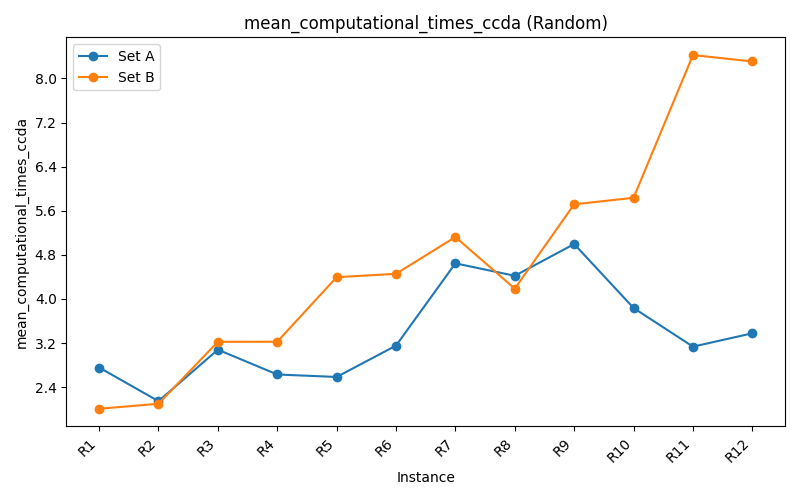
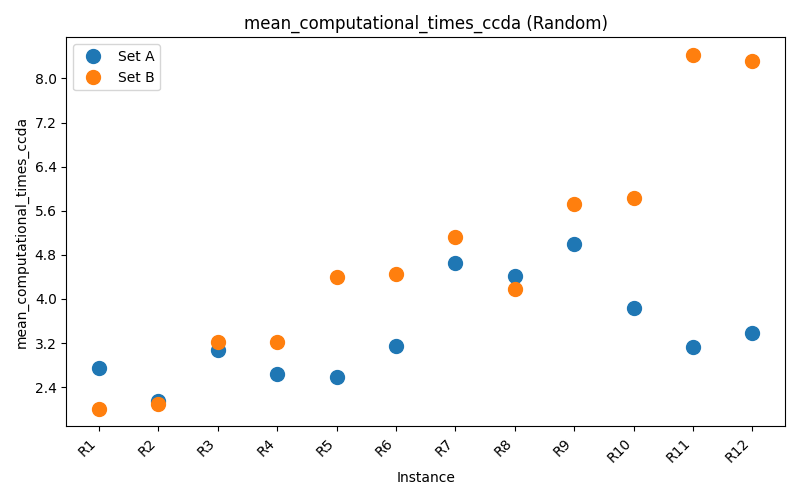
New mean results

diff --git a/utils/save_results.py b/utils/save_results.py
@@ -5,6 +5,7 @@ from matplotlib.ticker import MultipleLocator, MaxNLocator
 from natsort import natsorted
 import numpy as np
 
+
 def read_results_rilp(set_type, instance_type):
   results = 'results/SET_' + set_type + '/' + instance_type
   mean_computational_times_ccda = []
@@ -18,8 +19,6 @@ def read_results_rilp(set_type, instance_type):
   mean_costs = []
   tot_opt_found_formulations = []
   tot_opt_found_ccda = []
-
-
 
   for directory in natsorted(os.listdir(results)):
     computational_times_ccda = []
@@ -82,7 +81,6 @@ def read_results_rilp(set_type, instance_type):
       if solution_found:
         opt_found_formulations.append(1)
 
-
     mean_computational_times_ccda.append(np.mean(computational_times_ccda))
     mean_computational_times_reduction_algorithm.append(np.mean(computational_times_reduction_algorithm))
     mean_computational_times_formulation.append(np.mean(computational_times))
@@ -126,6 +124,7 @@ def read_results_ilp(set_type, instance_type):
 
   return mean_computational_times_complete_formulation
 
+
 def save_image(list_A, list_B, instance_type, image_name):
   images_base = 'images'
   dir_path = os.path.join(images_base, instance_type)
@@ -136,8 +135,8 @@ def save_image(list_A, list_B, instance_type, image_name):
   labels = [f"{instance_type}{i + 1}" for i in range(n)]
 
   fig, ax = plt.subplots(figsize=(8, 5))
-  ax.plot(x, list_A, marker='o', linestyle='-', label='Set A')
-  ax.plot(x, list_B, marker='o', linestyle='-', label='Set B')
+  ax.plot(x, list_A, marker='o', linestyle='None', markersize=10, label='Set A')
+  ax.plot(x, list_B, marker='o', linestyle='None', markersize=10, label='Set B')
 
   ax.xaxis.set_major_locator(MultipleLocator(1))
   ax.set_xticks(x)
@@ -156,8 +155,8 @@ def save_image(list_A, list_B, instance_type, image_name):
   plt.close(fig)
 
 
-def save_mean_results(set_type, instance_type, tot_opt_ccda, times_ccda, gaps, tot_opt_formulations, costs, formulation_times_ilp, formulation_times_rilp, filename):
-
+def save_mean_results(set_type, instance_type, times_gra, removed_arcs, more_removed_arcs, tot_opt_ccda, times_ccda,
+                      gaps, tot_opt_formulations, costs, formulation_times_ilp, formulation_times_rilp, filename):
   os.makedirs('results/SET_' + set_type[0], exist_ok=True)
 
   ilp_path = os.path.join('results/SET_' + set_type[0], filename)
@@ -188,15 +187,29 @@ def save_mean_results(set_type, instance_type, tot_opt_ccda, times_ccda, gaps, t
     f.write("\n" + "=" * 81 + "\n")
 
     f.write('\nILP:\n')
-    f.write('\nFormulation times:\n\n')
+    f.write('\nILP formulation times:\n\n')
     for i in range(len(formulation_times_ilp)):
       f.write(f"{set_type}-{instance_type[0]}{i + 1}: " + str(formulation_times_ilp[i]) + "\n")
 
     f.write("\n" + "=" * 81 + "\n")
     f.write("\nRILP:\n\n")
-    f.write('Formulation times:\n\n')
+    f.write('\nRILP formulation times:\n\n')
     for i in range(len(formulation_times_rilp)):
       f.write(f"{set_type}-{instance_type[0]}{i + 1}: " + str(formulation_times_rilp[i]) + "\n")
+
+    f.write("\n" + "=" * 81 + "\n")
+    f.write("\nGRA:\n\n")
+    f.write('Time:\n\n')
+    for i in range(len(times_gra)):
+      f.write(f"{set_type}-{instance_type[0]}{i + 1}: " + str(times_gra[i]) + "\n")
+
+    f.write("\nRemoved arcs:\n\n")
+    for i in range(len(removed_arcs)):
+      f.write(f"{set_type}-{instance_type[0]}{i + 1}: " + str(removed_arcs[i]) + "\n")
+
+    f.write("\nMore removed arcs:\n\n")
+    for i in range(len(more_removed_arcs)):
+      f.write(f"{set_type}-{instance_type[0]}{i + 1}: " + str(more_removed_arcs[i]) + "\n")
 
 
 def main():
@@ -215,12 +228,14 @@ def main():
   (mean_computational_times_ccda_A_Random, mean_computational_times_reduction_algorithm_A_Random,
    mean_computational_times_formulation_A_Random, mean_computational_times_A_Random, mean_gaps_A_Random,
    mean_removed_nodes_percentages_A_Random, mean_removed_arcs_percentages_A_Random,
-   mean_more_removed_arcs_percentages_A_Random, mean_costs_A_Random, tot_opt_found_formulations_A_Random, tot_opt_found_ccda_A_Random) = read_results_rilp('A', 'Random')
+   mean_more_removed_arcs_percentages_A_Random, mean_costs_A_Random, tot_opt_found_formulations_A_Random,
+   tot_opt_found_ccda_A_Random) = read_results_rilp('A', 'Random')
 
   (mean_computational_times_ccda_B_Random, mean_computational_times_reduction_algorithm_B_Random,
    mean_computational_times_formulation_B_Random, mean_computational_times_B_Random, mean_gaps_B_Random,
    mean_removed_nodes_percentages_B_Random, mean_removed_arcs_percentages_B_Random,
-   mean_more_removed_arcs_percentages_B_Random, mean_costs_B_Random, tot_opt_found_formulations_B_Random, tot_opt_found_ccda_B_Random) = read_results_rilp('B', 'Random')
+   mean_more_removed_arcs_percentages_B_Random, mean_costs_B_Random, tot_opt_found_formulations_B_Random,
+   tot_opt_found_ccda_B_Random) = read_results_rilp('B', 'Random')
 
   mean_computational_times_complete_formulation_A_Grid = read_results_ilp('A', 'Grid')
   mean_computational_times_complete_formulation_A_Random = read_results_ilp('A', 'Random')
@@ -245,10 +260,30 @@ def main():
   # save_image(mean_removed_arcs_percentages_A_Random, mean_removed_nodes_percentages_B_Random, 'R', 'mean_removed_arcs_percentage')
   # save_image(mean_more_removed_arcs_percentages_A_Random, mean_more_removed_arcs_percentages_B_Random, 'R', 'mean_more_removed_arcs_percentage')
 
-  save_mean_results('A', 'Grid', tot_opt_found_ccda_A_Grid, mean_computational_times_ccda_A_Grid, mean_gaps_A_Grid, tot_opt_found_formulations_A_Grid, mean_costs_A_Grid, mean_computational_times_complete_formulation_A_Grid, mean_computational_times_formulation_A_Grid, 'mean_results_A_Grid.txt')
-  save_mean_results('A', 'Random', tot_opt_found_ccda_A_Random, mean_computational_times_ccda_A_Random, mean_gaps_A_Random, tot_opt_found_formulations_A_Random, mean_costs_A_Random, mean_computational_times_complete_formulation_A_Random, mean_computational_times_formulation_A_Random, 'mean_results_A_Random.txt')
-  save_mean_results('B', 'Grid', tot_opt_found_ccda_B_Grid, mean_computational_times_ccda_B_Grid, mean_gaps_B_Grid, tot_opt_found_formulations_B_Grid, mean_costs_B_Grid, mean_computational_times_complete_formulation_B_Grid, mean_computational_times_formulation_B_Grid, 'mean_results_B_Grid.txt')
-  save_mean_results('B', 'Random', tot_opt_found_ccda_B_Random, mean_computational_times_ccda_B_Random, mean_gaps_B_Random, tot_opt_found_formulations_B_Random, mean_costs_B_Random, mean_computational_times_complete_formulation_B_Random, mean_computational_times_formulation_B_Random, 'mean_results_B_Random.txt')
+  save_mean_results('A', 'Grid', mean_computational_times_reduction_algorithm_A_Grid,
+                    mean_removed_arcs_percentages_A_Grid, mean_more_removed_arcs_percentages_A_Grid,
+                    tot_opt_found_ccda_A_Grid, mean_computational_times_ccda_A_Grid, mean_gaps_A_Grid,
+                    tot_opt_found_formulations_A_Grid, mean_costs_A_Grid,
+                    mean_computational_times_complete_formulation_A_Grid, mean_computational_times_formulation_A_Grid,
+                    'mean_results_A_Grid.txt')
+  save_mean_results('A', 'Random', mean_computational_times_reduction_algorithm_A_Random,
+                    mean_removed_arcs_percentages_A_Random, mean_more_removed_arcs_percentages_A_Random,
+                    tot_opt_found_ccda_A_Random, mean_computational_times_ccda_A_Random, mean_gaps_A_Random,
+                    tot_opt_found_formulations_A_Random, mean_costs_A_Random,
+                    mean_computational_times_complete_formulation_A_Random,
+                    mean_computational_times_formulation_A_Random, 'mean_results_A_Random.txt')
+  save_mean_results('B', 'Grid', mean_computational_times_reduction_algorithm_B_Grid,
+                    mean_removed_arcs_percentages_B_Grid, mean_more_removed_arcs_percentages_B_Grid,
+                    tot_opt_found_ccda_B_Grid, mean_computational_times_ccda_B_Grid, mean_gaps_B_Grid,
+                    tot_opt_found_formulations_B_Grid, mean_costs_B_Grid,
+                    mean_computational_times_complete_formulation_B_Grid, mean_computational_times_formulation_B_Grid,
+                    'mean_results_B_Grid.txt')
+  save_mean_results('B', 'Random', mean_computational_times_reduction_algorithm_B_Random,
+                    mean_removed_arcs_percentages_B_Random, mean_more_removed_arcs_percentages_B_Random, tot_opt_found_ccda_B_Random, mean_computational_times_ccda_B_Random,
+                    mean_gaps_B_Random, tot_opt_found_formulations_B_Random, mean_costs_B_Random,
+                    mean_computational_times_complete_formulation_B_Random,
+                    mean_computational_times_formulation_B_Random, 'mean_results_B_Random.txt')
+
 
 if __name__ == '__main__':
   main()
